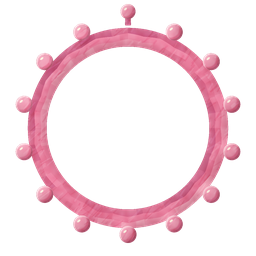
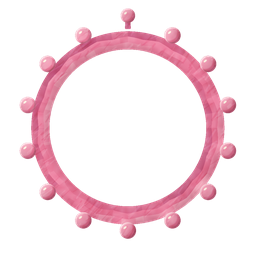
art: 6 frame bases scaled for the 4 px margin, shots + REVIEW for batch 3+4+D

Changed region(s): [[0.0625, 0.0, 0.9375, 0.9688], [0.2812, 0.7188, 0.3125, 0.75], [0.25, 0.6875, 0.2812, 0.7188]]

diff --git a/design/handoffs/art-redo-0311/round-34D/REVIEW.md b/design/handoffs/art-redo-0311/round-34D/REVIEW.md
@@ -1,0 +1,39 @@
+# Art lượt 3 + 4 + D: đã lắp (5/11)
+
+Nhánh `art/batch34d`, chưa merge, chưa push, chưa deploy. Hàng giao: `AxieDice-art-batch34D` (Claude Design, vòng 2 "richer painting").
+
+## Đã lắp
+**Skin xúc xắc (part3)**
+- 26 albedo hạ 1024 → 512 (Lanczos), 14 emission, 2 metallic cũng 512. Chép đè đúng thư mục `assets/cosmetics/dice/<skin>/`.
+- `normal.png` sinh lại từ albedo bằng script (độ cao từ luma, blur nhẹ, Sobel có wrap, quy ước OpenGL Y lên, độ mạnh sao cho xy std ~12/255, cùng cỡ skin cũ 9-35). `plate.png` giữ cũ.
+- `DiceThumb.VERSION` 4 -> 5 (thumbnail bake lại).
+- Ảnh: `production/qa/art-batch34D/1280/cos3d-thumbs.png` (26 thumbnail; tờ ảnh chỉ bố trí cho 20 nên 6 cái tràn xuống dưới, không phải lỗi game), `cos3d-faces-*.png`, `cos3d-profile-dice-*`, `cos3d-echobox-*`.
+
+**Khung avatar (part4)**
+- 27 `frame_<id>_base.png` hạ 1024 -> 256. Giữ mọi layer động cũ.
+- Cửa sổ giao 648-649 ở 1024 -> ~162 ở 256, khớp `window_diameter_px`.
+- **Sáu khung phải thu nhỏ**: `t_cosmetics` đòi viền ngoài 4 px trong suốt, mà bản giao vươn tới r 500/512 (còn 3 px). Thu cả khung quanh tâm (từ bản 1024): c_plant, c_bird, l_sovereign 0.964; e_firefly 0.971; u_mushroom 0.979; e_reef_04 0.956. Hệ quả: cửa sổ của sáu khung này còn 155-159 px thay vì 162, viền che avatar thêm tối đa ~3.5 px mỗi bên. Cần nới/giảm thì nói.
+- Ảnh: `1920/cos3d-profile-frames-1920.png`, `cos3d-profile-frame_*`.
+
+**Icon (partD)**
+- `assets/icons/hl/`: aid, attrition, boss-clock, lethal, pact, spike, mỗi cái master 128 + `_64` + `_32`. Svg cũ của sáu cái này đã xoá.
+- Xoá 8 tên không dùng (gem gift skip mooncard undo lock drawback eternal) + `reroll` (grep xác nhận không ai gọi; `HudKit.icon("reroll")` giờ trả `ui_reroll`).
+- `HudKit.icon(name, px)` chọn `_32` / `_64` theo cỡ; lethal / attrition / aid đã truyền cỡ.
+- `cur_fragment/gem/shard/ticket`: master 128 + `_64/_32/_24`. `cur_stone` cắt từ `stone_block` kho (128/64/32/24/16). `cur_stone_reveal` 256 + 64. `UI3.currency_icon` giờ tìm được `_24/_32/_64` của gem và shard.
+- `TutorialCoach._STARTER_ICONS` vẫn trỏ được; `UI6Assets.needs_disc` không có `cur_*`, không cần đổi.
+- Ảnh: `ui5/ui05-b1_a_02-combat--player-turn*.png` (HUD, nút Reroll), `ui5/ui05-b23_*profile*`, `cos3d-echobox-*`. (Scene capture ui5 ghi đè evidence cũ đã commit; mình chép ảnh mới vào `ui5/` rồi khôi phục bản cũ.)
+
+## 3 câu Liam đã trả lời (5/11)
+1. **e_reef_01 glow**: kéo vào trong. Làm bằng script, ép bán kính ngoài của lớp glow về trong (giữ file, tên, tâm, vòng trong). Trước: pixel mờ trải r 382 -> 617 (đơn vị 1024), tràn ra ngoài chân quạt (quạt tới r 486) và ra khỏi canvas. Sau: r 382 -> 479, không chạm góc. Ảnh: `frames_e_reef_01_before_after.png` (base + glow trên đĩa xám, 96 và 240 px, trái trước / phải sau; ảnh ghép, không phải trong game).
+2. **Skin lattice / scallop** (l_kingdom, e_s1_founder, r_aqua, r_bird, e_reef_06, r_reptile): **đang chờ Claude Design vẽ lại với hoạ tiết to hơn** (Liam tự viết prompt). Giữ bản hiện tại, không sửa tay.
+3. **m_crystal core tím -> đỏ ruby**: đổi hue/saturation bằng script, giữ value, alpha, hình. Hue lấy từ base (359.5 độ, sat p75 0.70). Mean RGB trước 204/138/246 (hue ~278), sau 252/98/100. Glint giữ nguyên (255/238/242, trắng hồng ấm). Ảnh: `frames_m_crystal_before_after.png`.
+
+## Test
+- Test mới `t_art_batch34d` (170 check). Đã chạy: t_assets 508, t_art_batch2_lib 82, t_dice_skin 542, t_mockup_assets 132, t_cosmetics (sau khi thu nhỏ 6 khung), t_art_batch34d.
+- Cả suite lần đầu (`AXIE_SKIP_RULES_FINGERPRINT=1`): 347 test, 346 xanh, `t_rules_version` bỏ qua theo cờ, `t_cosmetics` đỏ (6 khung thiếu viền 4 px) -> đã sửa như trên.
+- Sàn mới nên +1 (t_art_batch34d).
+
+## Chưa làm / để ý
+- Sáu skin lattice chờ vẽ lại (câu 2).
+- Chưa chụp riêng chỗ hiện tiền tệ (cur_*) trên HUD; tiền tệ có trong ảnh Profile / Echo Box.
+- Cửa sổ 6 khung thu nhỏ (xem trên).
